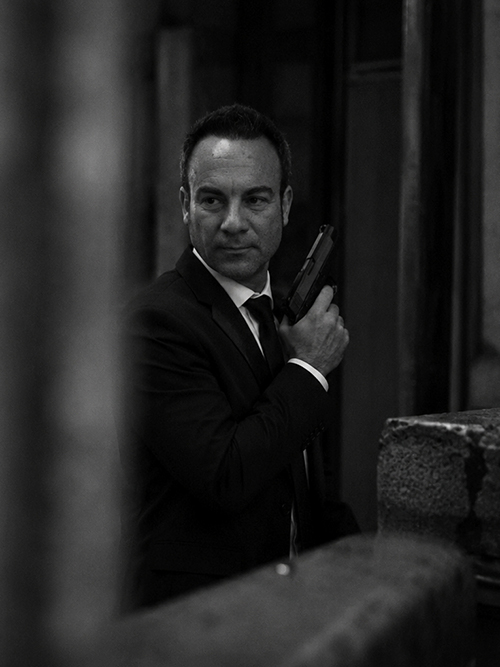
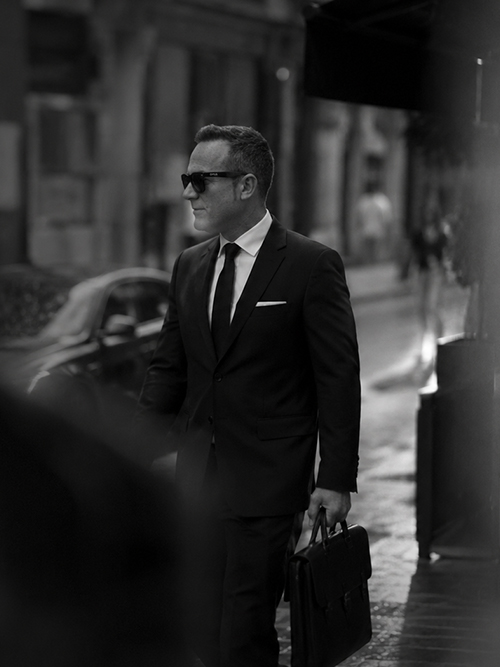
mejorias debrief 7

diff --git a/src/components/debrief/CreditsSequence.tsx b/src/components/debrief/CreditsSequence.tsx
@@ -13,12 +13,13 @@ type CreditBlock = {
 };
 
 const CREDIT_BLOCKS: CreditBlock[] = [
-  { title: "OPERACION", lines: ["MINERVA"] },
+  { title: "ALTA MESA", lines: ["presenta"] },
+  { title: "OPERACION", lines: ["CUMPLE"] },
   { title: "ELENCO", lines: ["Los Michis"] },
-  { title: "AGENTE OPERATIVO", lines: ["MANDARIN"] },
-  { title: "AGENTE DE APOYO", lines: ["MINERVA"] },
-  { title: "CAPITULO", lines: ["VALENCIA"] },
-  { title: "LOCALIZACION", lines: ["HOTEL WESTIN CONTINENTAL", "VALENCIA"] },
+  { title: "LA MICHI", lines: ["Programando durante dos semanas", "para su Michi."] },
+  { title: "EL MICHI", lines: ["Realizando un operativo", "sin sospechar absolutamente nada."] },
+  { title: "MENSAJE", lines: ["Espero que te guste todo, amor.", "", "Hecho con mucho carino durante estas semanas por tu Michi."] },
+  { title: "CITA", lines: ["\"Porque naveguemos juntos todas las aguas,", "", "las buenas y las malas,", "", "y salgamos siempre mas fuertes.", "Te quiero.\""] },
 ];
 
 const PHOTO_BASENAMES = ["eli1", "nata1", "eli2", "nata2", "eli3", "nata3"] as const;
@@ -27,7 +28,6 @@ const PHOTO_EXTENSIONS = ["jpg", "jpeg", "png", "webp"] as const;
 export function CreditsSequence({ active }: CreditsSequenceProps) {
   const [overlayVisible, setOverlayVisible] = useState(false);
   const [showLogo, setShowLogo] = useState(false);
-  const [showPresenta, setShowPresenta] = useState(false);
   const [activeCreditIndex, setActiveCreditIndex] = useState<number | null>(null);
   const [creditVisible, setCreditVisible] = useState(false);
   const [photoVisible, setPhotoVisible] = useState(false);
@@ -93,15 +93,11 @@ export function CreditsSequence({ active }: CreditsSequenceProps) {
       if (cancelled) return;
 
       setShowLogo(true);
-      await wait(1700);
+      await wait(3000);
       if (cancelled) return;
 
-      setShowPresenta(true);
-      await wait(2200);
-      if (cancelled) return;
-
-      setShowPresenta(false);
-      await wait(700);
+      setShowLogo(false);
+      await wait(1000);
       if (cancelled) return;
 
       let lastPhoto: string | null = null;
@@ -109,11 +105,7 @@ export function CreditsSequence({ active }: CreditsSequenceProps) {
       for (let i = 0; i < CREDIT_BLOCKS.length; i += 1) {
         setActiveCreditIndex(i);
         setCreditVisible(true);
-        await wait(4800);
-        if (cancelled) return;
-
-        setCreditVisible(false);
-        await wait(1200);
+        await wait(2800);
         if (cancelled) return;
 
         const nextPhoto = resolvedPhotos[i] || null;
@@ -121,15 +113,25 @@ export function CreditsSequence({ active }: CreditsSequenceProps) {
           setPhotoPrevious(lastPhoto);
           setPhotoCurrent(nextPhoto);
           setPhotoVisible(true);
+          setCreditVisible(false);
 
-          await wait(7000); // 2s fade in + 5s hold
+          // Let previous image crossfade out over ~2s while new image fades in.
+          await wait(2100);
+          if (cancelled) return;
+          setPhotoPrevious(null);
+
+          await wait(3500);
           if (cancelled) return;
 
           setPhotoVisible(false);
-          await wait(2000); // 2s fade out
+          await wait(900);
           if (cancelled) return;
 
           lastPhoto = nextPhoto;
+        } else {
+          setCreditVisible(false);
+          await wait(900);
+          if (cancelled) return;
         }
       }
 
@@ -168,7 +170,7 @@ export function CreditsSequence({ active }: CreditsSequenceProps) {
             <img
               src={photoPrevious}
               alt="Creditos anterior"
-              className={`absolute inset-0 h-full w-full object-cover transition-opacity duration-[2000ms] ${photoVisible ? "opacity-[0.8]" : "opacity-0"}`}
+              className={`absolute inset-0 h-full w-full object-cover transition-opacity duration-[2000ms] ${photoVisible ? "opacity-0" : "opacity-[0.85]"}`}
             />
           )}
 
@@ -176,7 +178,7 @@ export function CreditsSequence({ active }: CreditsSequenceProps) {
             <img
               src={photoCurrent}
               alt="Creditos"
-              className={`absolute inset-0 h-full w-full object-cover transition-opacity duration-[2000ms] ${photoVisible ? "opacity-[0.94]" : "opacity-0"}`}
+              className={`absolute inset-0 h-full w-full object-cover transition-opacity duration-[2000ms] ${photoVisible ? "opacity-[0.85]" : "opacity-0"}`}
             />
           )}
 
@@ -193,13 +195,8 @@ export function CreditsSequence({ active }: CreditsSequenceProps) {
             className={`mx-auto w-[78px] md:w-[92px] transition-opacity duration-[2000ms] ${showLogo ? "opacity-90" : "opacity-0"}`}
           />
 
-          <div className={`mt-7 font-mono text-[11px] uppercase tracking-[0.42em] text-gold-bright [text-shadow:0_0_10px_rgba(214,173,74,0.2)] transition-opacity duration-[1700ms] ${showPresenta ? "opacity-100" : "opacity-0"}`}>
-            <div>ALTA MESA</div>
-            <div className="mt-2 text-gold-dim">presenta</div>
-          </div>
-
           {activeCreditIndex !== null && (
-            <div className={`mt-16 transition-opacity duration-[1200ms] ${creditVisible ? "opacity-100" : "opacity-0"}`}>
+            <div className={`mt-16 transition-opacity duration-[900ms] ${creditVisible ? "opacity-100" : "opacity-0"}`}>
               <h3 className="font-mono text-[11px] uppercase tracking-[0.42em] text-gold-dim [text-shadow:0_0_10px_rgba(214,173,74,0.15)] md:text-[13px]">
                 {CREDIT_BLOCKS[activeCreditIndex].title}
               </h3>